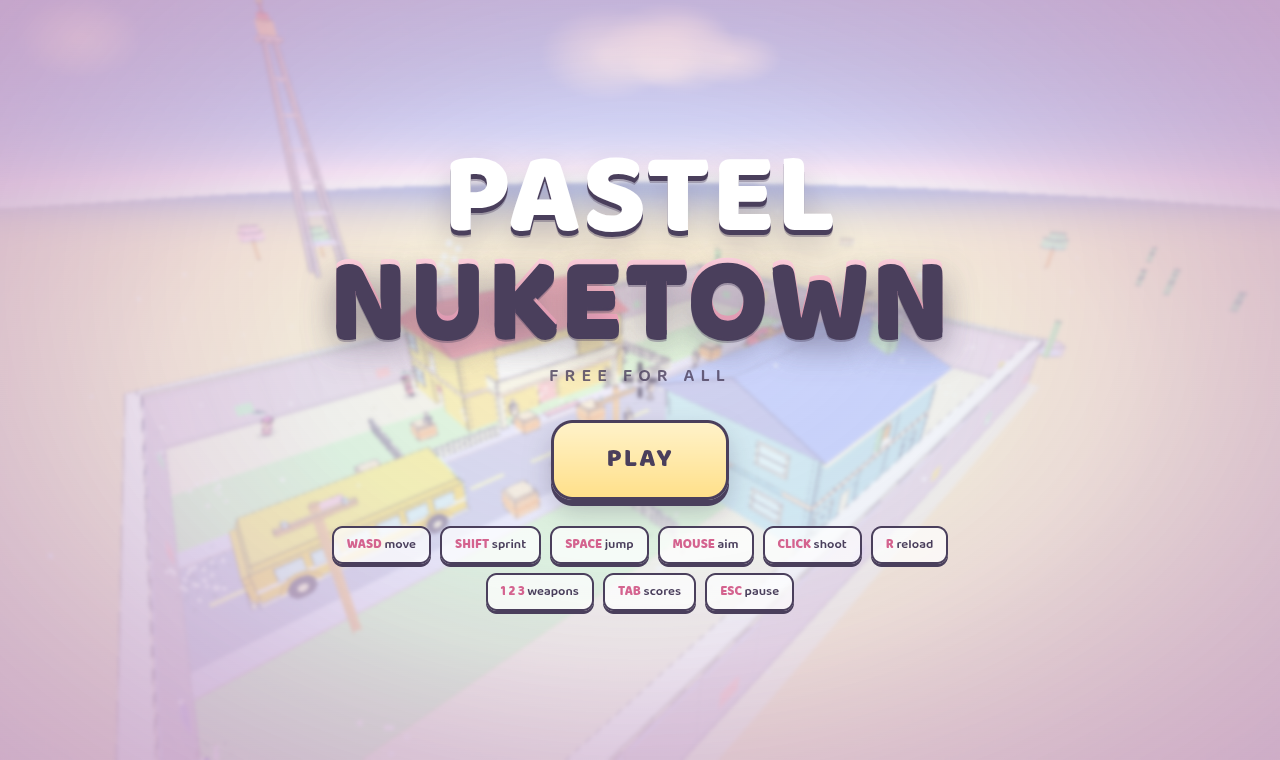
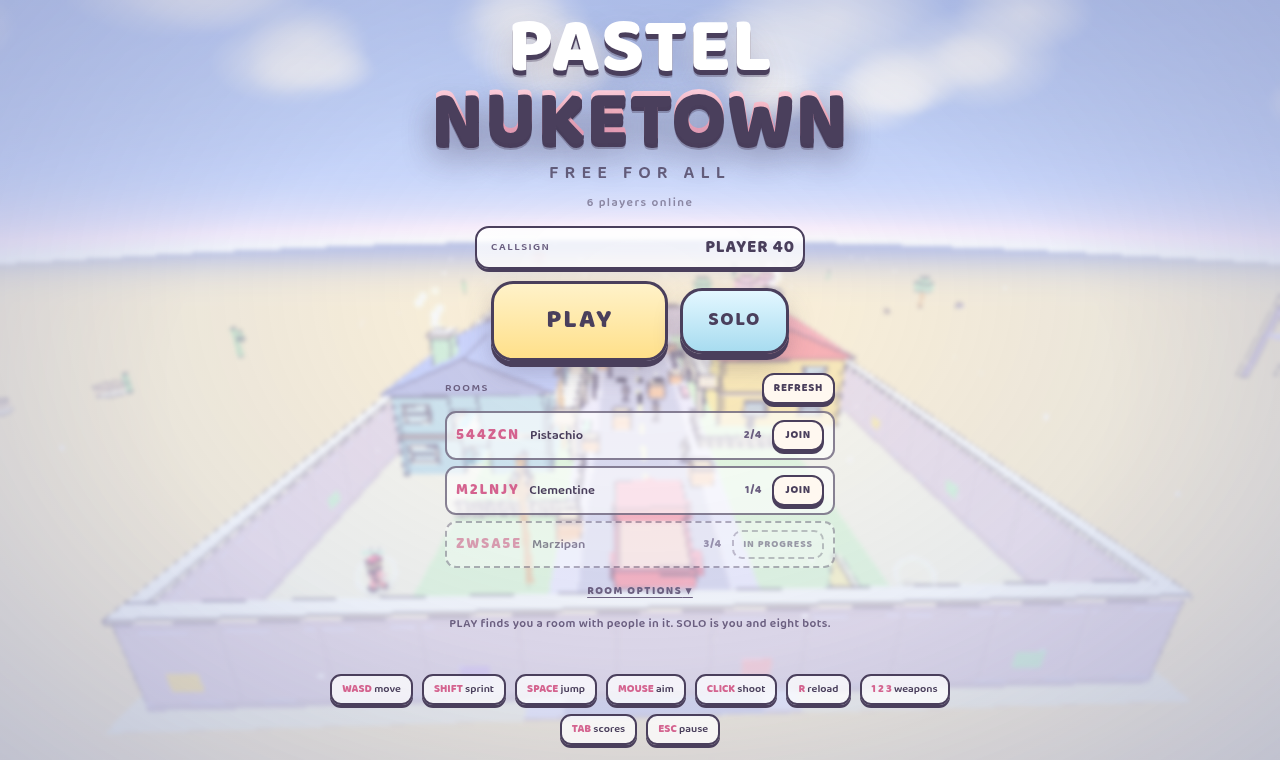
Refresh the screenshots the menu change made wrong
shots/title.png was the README's hero image and showed a title screen that
no longer exists: SOLO and CREATE ROOM side by side, no PLAY, no browser.
Recaptured against a local relay holding two joinable rooms and one running
one, so the shot carries the IN PROGRESS row rather than describing it.

shots/lobby.png is new and shows the countdown, which is the part of this
change a reader has no other way to see standing still.

diff --git a/README.md b/README.md
@@ -2,7 +2,7 @@
 
 Pastel Nuketown is a free-to-play first-person shooter (FPS) game that runs entirely in the browser. Built with Three.js and vanilla JavaScript, it features a pastel-styled Nuketown-inspired arena with host-authoritative multiplayer over WebSockets. Play solo against AI bots or create a room for up to 4 players. No downloads, no plugins, no accounts — open the page and play.
 
-![Pastel Nuketown title screen showing the pastel-coloured arena map with two houses, a bus, and a truck](shots/title.png)
+![Pastel Nuketown title screen: a PLAY button over the pastel arena, with a room browser listing two joinable rooms and one marked IN PROGRESS](shots/title.png)
 
 ## Features
 
@@ -49,6 +49,8 @@ The WebSocket relay accepts any origin by default. Players on your local network
 **PLAY** is the whole flow for anyone who does not want to think about rooms. It reads the room browser, joins the room with the most players and a seat still free, and opens a room of its own only when there is nothing to join. Fullest-first on purpose: a thin population belongs in one match rather than scattered across four rooms of one.
 
 Once a room holds two people the host's lobby counts down and starts on its own — 15 seconds, or 5 once the room is full. A host saving a seat for a friend presses **HOLD** to stop the clock; **START MATCH** is still there for the impatient. Nobody is left staring at a roster waiting for a person who wandered off.
+
+![The room lobby showing a two-player roster, a COPY INVITE button, and a countdown reading "Starting in 11…" next to a HOLD button](shots/lobby.png)
 
 The browser lists rooms in a live match as well as open ones, greyed out and marked `IN PROGRESS`. They cannot be joined until the round ends — that comes with drop-in, which needs a protocol change — but hiding them is what used to make a busy relay read "no open rooms" at exactly the times the game had the most people in it.
 
